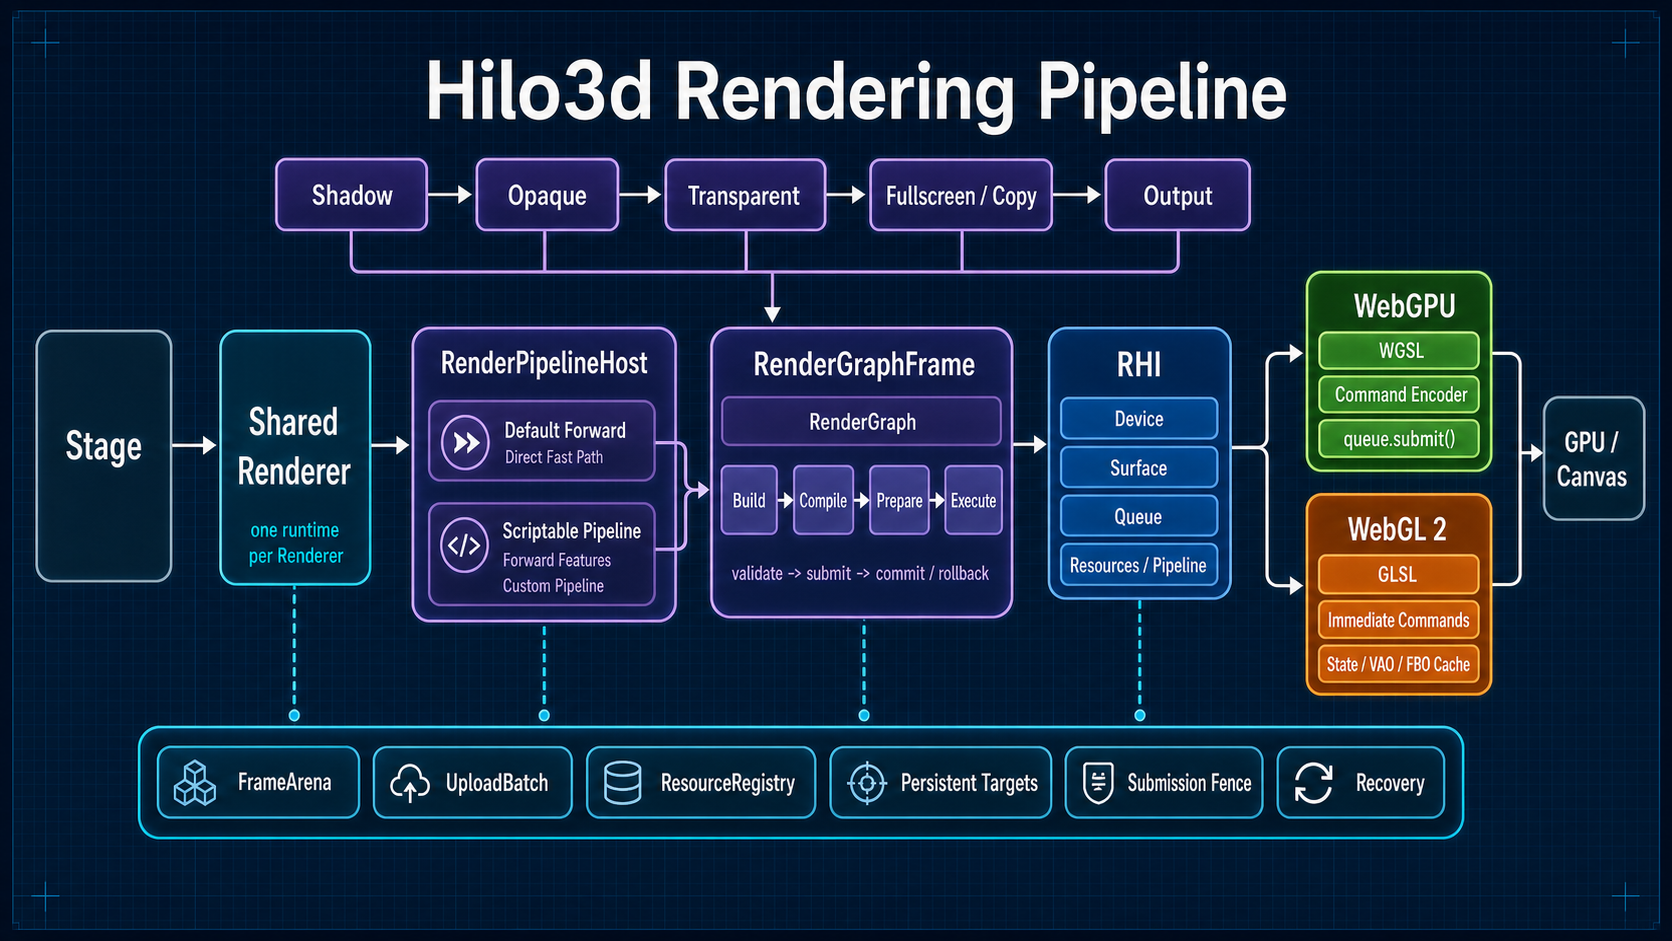
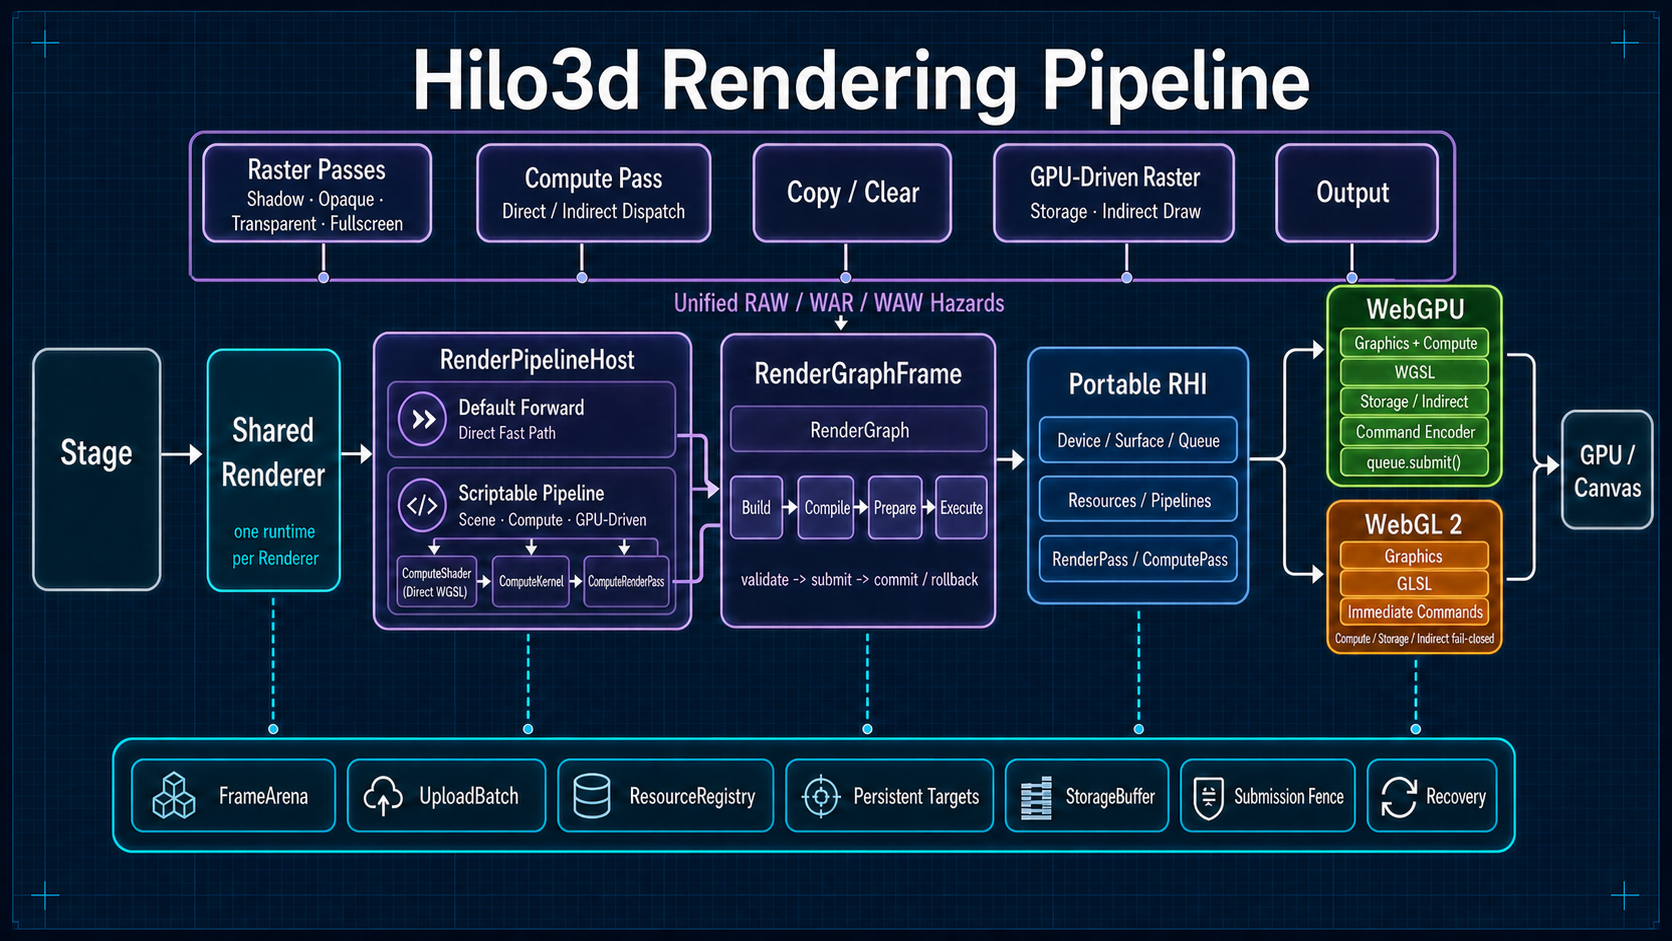
docs(rendering): update pipeline diagram for compute support

diff --git a/documentation/RENDERING_ARCHITECTURE.md b/documentation/RENDERING_ARCHITECTURE.md
@@ -532,10 +532,10 @@ Renderer 的组合式 Pass，使未来加入新的图优化、调试可视化或
 ```text
 Use case: infographic-diagram
 Asset type: Hilo3d architecture documentation diagram
-Primary request: show the current Hilo3d rendering flow from Stage through Shared Renderer, RenderPipelineHost and RenderGraphFrame, then portable RHI, WebGPU/WebGL 2 and GPU/Canvas
-Composition/framing: 16:9 landscape, left-to-right main flow; pipeline-composed Pass lane above; shared frame/resource lifecycle lane below
+Primary request: show the current Hilo3d rendering flow from Stage through Shared Renderer, RenderPipelineHost and RenderGraphFrame, then portable RHI, WebGPU/WebGL 2 and GPU/Canvas; include the WebGPU-only compute, storage and GPU-driven raster path without introducing a second renderer or graph
+Composition/framing: 16:9 landscape, left-to-right main flow; peer raster, compute, copy/clear, GPU-driven raster and output Pass groups independently connected to one unified RAW/WAR/WAW dependency bus above; shared frame/resource lifecycle lane below
 Style/medium: clean vector-like technical infographic, dark navy background, cyan and violet accents, crisp English technical labels
-Constraints: accurately show Stage -> Shared Renderer -> RenderPipelineHost -> RenderGraphFrame -> RHI -> WebGPU/WebGL 2; show "Default Forward / Direct Fast Path" and "Scriptable Pipeline / Forward Features / Custom Pipeline" as two host paths converging into one RenderGraphFrame; show RenderGraph inside RenderGraphFrame; include Persistent Targets in the shared lifecycle lane; render the labels exactly as "RenderPipelineHost", "RenderGraphFrame", "RenderGraph" and "RHI"; do not show a second graph, backend-specific SRP branches or any deprecated standalone frame label; no watermark
+Constraints: accurately show Stage -> Shared Renderer -> RenderPipelineHost -> RenderGraphFrame -> Portable RHI -> WebGPU/WebGL 2; show "Default Forward / Direct Fast Path" and "Scriptable Pipeline / Scene · Compute · GPU-Driven" as two host paths converging into one RenderGraphFrame; associate "ComputeShader (Direct WGSL) -> ComputeKernel -> ComputeRenderPass" with the scriptable path; show RenderGraph inside RenderGraphFrame with Build, Compile, Prepare and Execute; show RenderPass / ComputePass in Portable RHI; show Graphics + Compute, Storage / Indirect and queue.submit() only in WebGPU; show WebGL 2 graphics plus "Compute / Storage / Indirect: fail-closed" rather than an emulation path; include Persistent Targets, StorageBuffer, Submission Fence and Recovery in the shared lifecycle lane; render the labels exactly as "RenderPipelineHost", "RenderGraphFrame", "RenderGraph" and "Portable RHI"; do not show a fixed raster -> compute -> copy order, a second graph, backend-specific SRP branches or any deprecated standalone frame label; no watermark
 ```
 
 ### 渲染优势图
